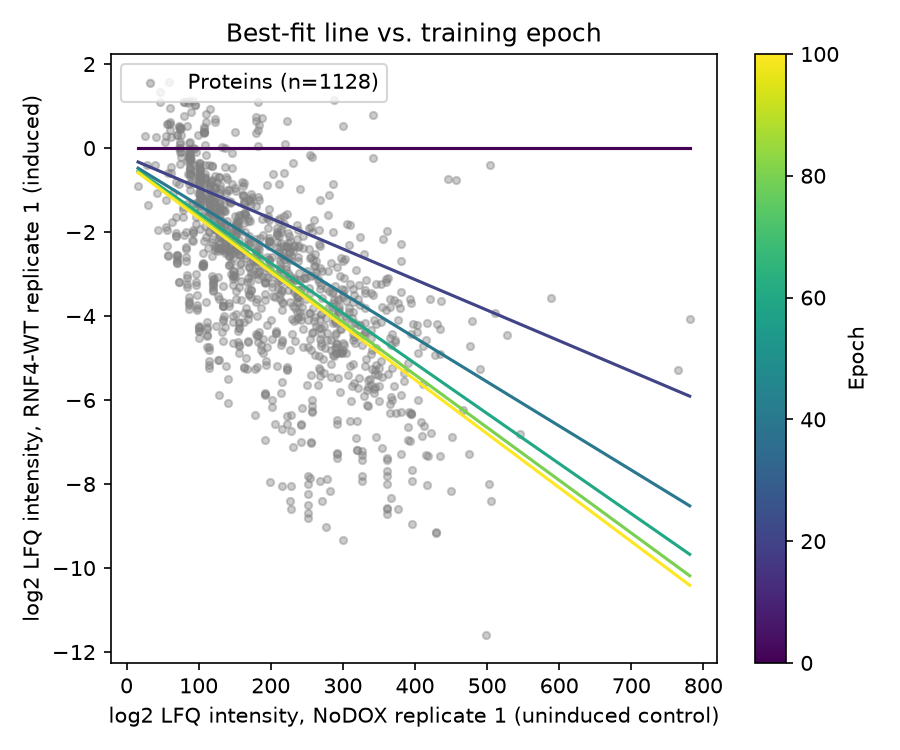
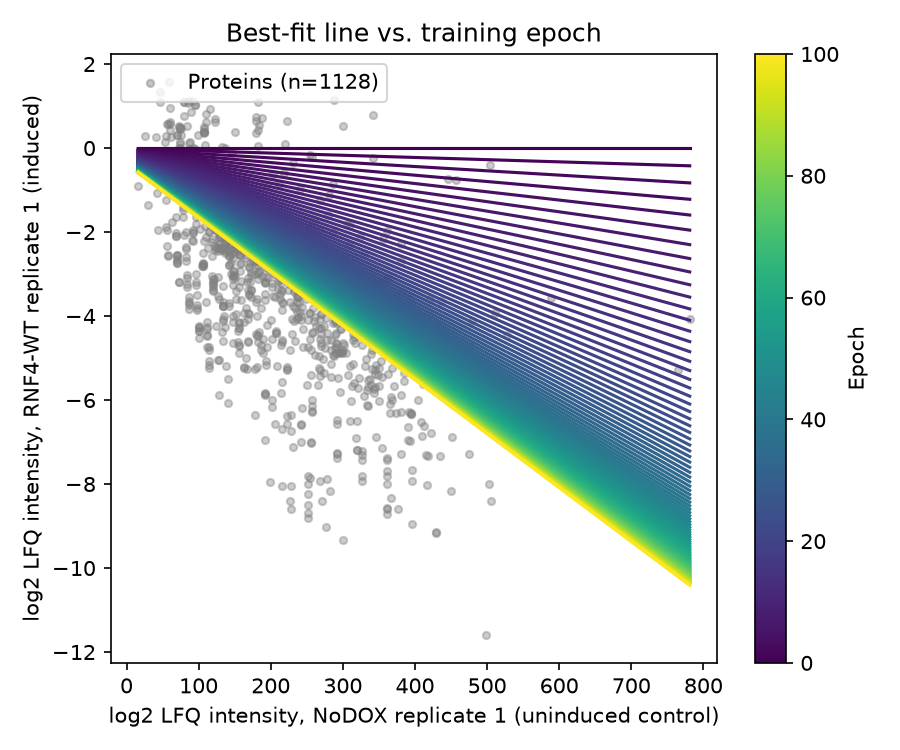
add weight plot

Changed region(s): [[0.1556, 0.184, 0.7778, 0.7973]]

diff --git a/projects/01_linear_reg/linear_regression.py b/projects/01_linear_reg/linear_regression.py
@@ -20,6 +20,7 @@ from plotting import (
     plot_fit_evolution,
     plot_lr_sweep,
     plot_standardization,
+    plot_weight_evolution,
 )
 
 REPO_ROOT = Path(__file__).resolve().parents[2]
@@ -60,10 +61,7 @@ def build_parser():
 
 
 def load_xy() -> tuple[np.ndarray, np.ndarray]:
-    # the excel file has multiple sheets
-    # xlsx_files = sorted(glob.glob(str(DATA_DIR / "barroso-gomila2023.xlsx")))
-
-    df = pd.read_csv(DATA_DIR / "delaney-esol.csv") # load the first sheet
+    df = pd.read_csv(DATA_DIR / "delaney-esol.csv")
     x = df[X_COL].to_numpy(dtype=float)
     y = df[Y_COL].to_numpy(dtype=float)
     return x, y
@@ -104,8 +102,8 @@ def linear_reg(
         grad_slope = (2.0 / n) * np.sum(error * x)
         intercept -= lr * grad_intercept
         slope -= lr * grad_slope
-        if epoch % snapshot_interval == 0 or epoch == n_epochs:
-            snapshots.append((epoch, intercept, slope))
+        # if epoch % snapshot_interval == 0 or epoch == n_epochs:
+        snapshots.append((epoch, intercept, slope))
     return intercept, slope, loss_history, snapshots
 
 
@@ -157,18 +155,45 @@ def main() -> None:
     gd_slope = slope / x_scale
     gd_intercept = b - slope * x_mean / x_scale
 
-    # y_pred_gd = gd_intercept + gd_slope * x
-
     # re-run linear_reg with different learning rates
     # keep track of final losses for each learning rate
     final_losses = sweep_final_loss(x_std, y, LEARNING_RATES, args.epochs)
 
 
-    plot_loss(loss_history, FIG_DIR / "loss_vs_epoch.png")
-    plot_fit(x, y, gd_intercept, gd_slope,FIG_DIR / "y_vs_x_fit.png")
-    plot_fit_evolution(x, y, snapshots, x_mean, x_scale, FIG_DIR / "fit_evolution.png")
-    plot_lr_sweep(LEARNING_RATES, final_losses, FIG_DIR / "lr_sweep.png")
-    plot_standardization(x, x_std, X_COL, FIG_DIR / "standardization.png")
+    plot_loss(
+        loss_history,
+        FIG_DIR / "loss_vs_epoch.png",
+    )
+    plot_weight_evolution(
+        snapshots,
+        FIG_DIR / "weight_evolution.png",
+    )
+    plot_fit(
+        x, 
+        y, 
+        gd_intercept, 
+        gd_slope,
+        FIG_DIR / "y_vs_x_fit.png",
+    )
+    plot_fit_evolution(
+        x,
+        y,
+        snapshots,
+        x_mean,
+        x_scale,
+        FIG_DIR / "fit_evolution.png",
+    )
+    plot_lr_sweep(
+        LEARNING_RATES,
+        final_losses,
+        FIG_DIR / "lr_sweep.png",
+    )
+    plot_standardization(
+        x,
+        x_std,
+        X_COL,
+        FIG_DIR / "standardization.png",
+    )
 
 
 if __name__ == "__main__":

diff --git a/projects/01_linear_reg/plotting.py b/projects/01_linear_reg/plotting.py
@@ -2,6 +2,8 @@
 import matplotlib.pyplot as plt
 from pathlib import Path
 import numpy as np
+import seaborn as sns
+
 
 DIVERGED_CAP = 1.0e4
 
@@ -19,11 +21,37 @@ def plot_loss(
     plt.ylabel("MSE loss (standardized x)")
     plt.title("Batch gradient descent convergence")
 
-    # plt.yscale("log")
     plt.tight_layout()
     plt.savefig(path, dpi=150)
     plt.close()
 
+
+
+def plot_weight_evolution(
+    snapshots: list[tuple[int, float, float]],
+    path: Path,
+) -> None:
+
+    plt.figure(figsize=(6, 4))
+
+    for epoch, intercept, slope in snapshots:
+        sns.scatterplot(
+            x=[epoch], 
+            y=[slope],
+            color="blue",
+            alpha=0.5)
+        sns.scatterplot(
+            x=[epoch],
+            y=[intercept],
+            color="crimson",
+            alpha=0.5)
+
+    plt.xlabel("Epoch")
+    plt.ylabel("Weight or Slope value")
+    plt.legend(["slope", "intercept"])
+    plt.tight_layout()
+    plt.savefig(path, dpi=150)
+    plt.close()
 
 
 def plot_fit(
